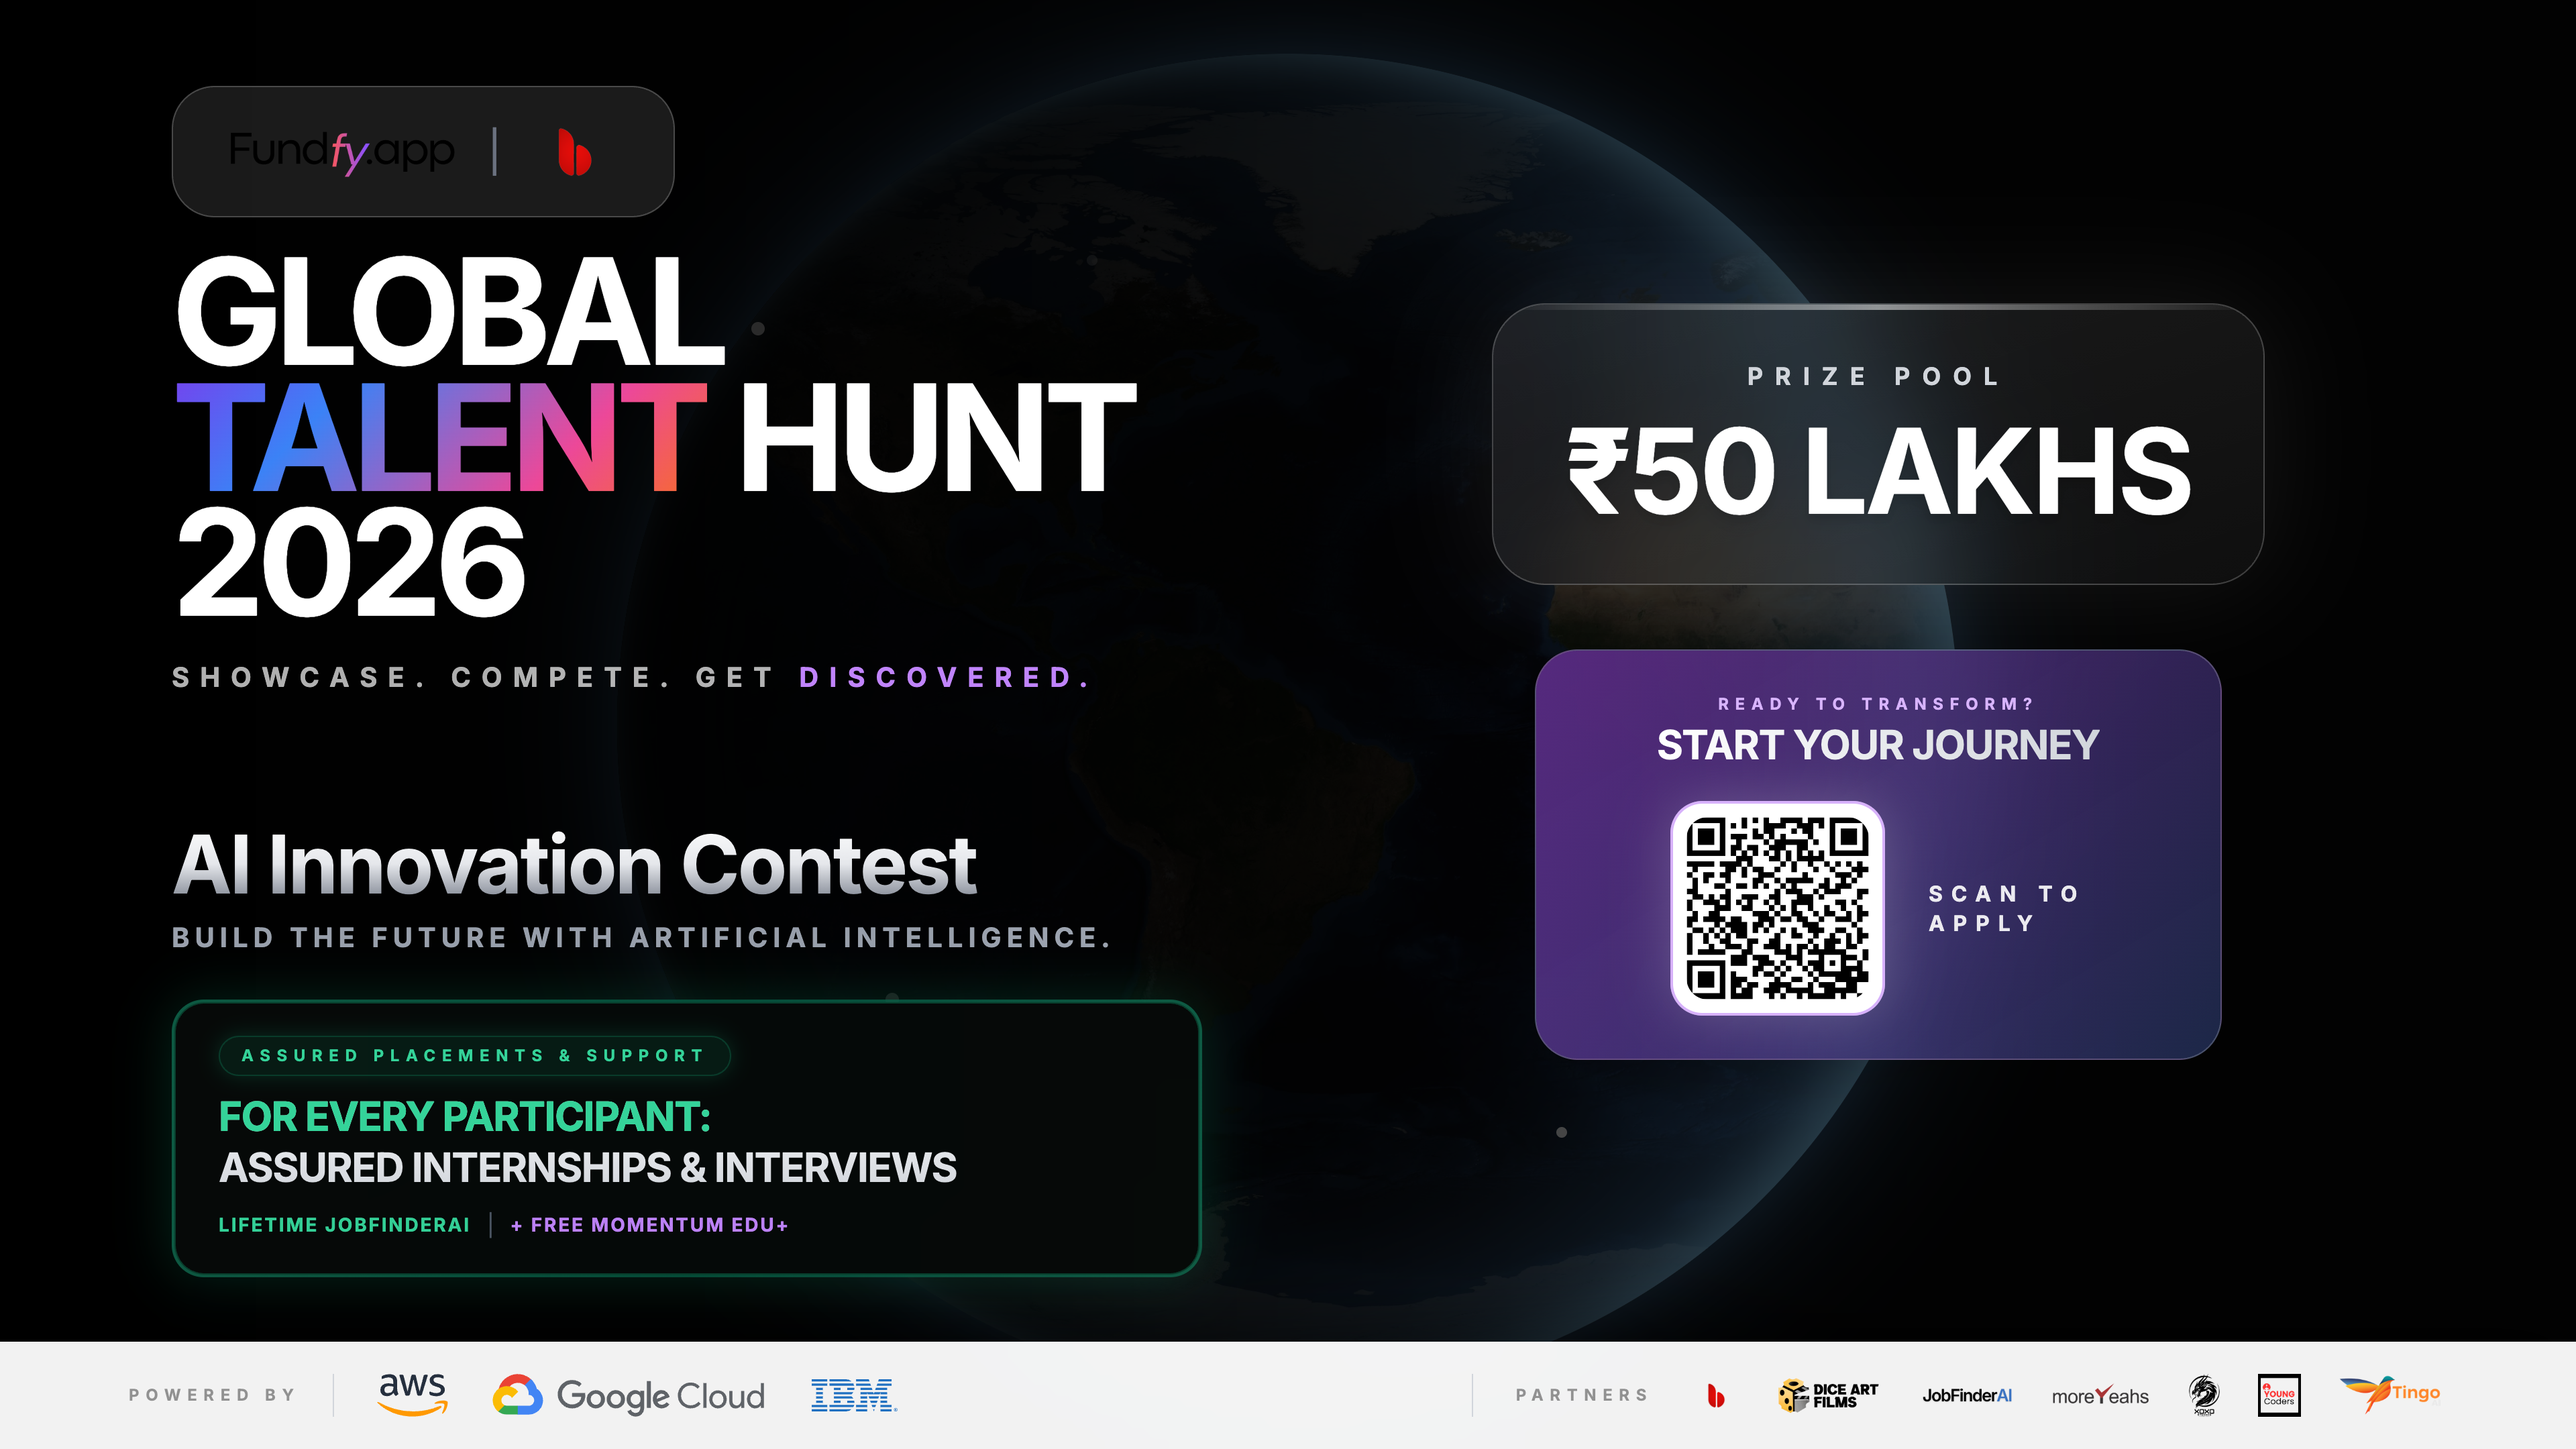
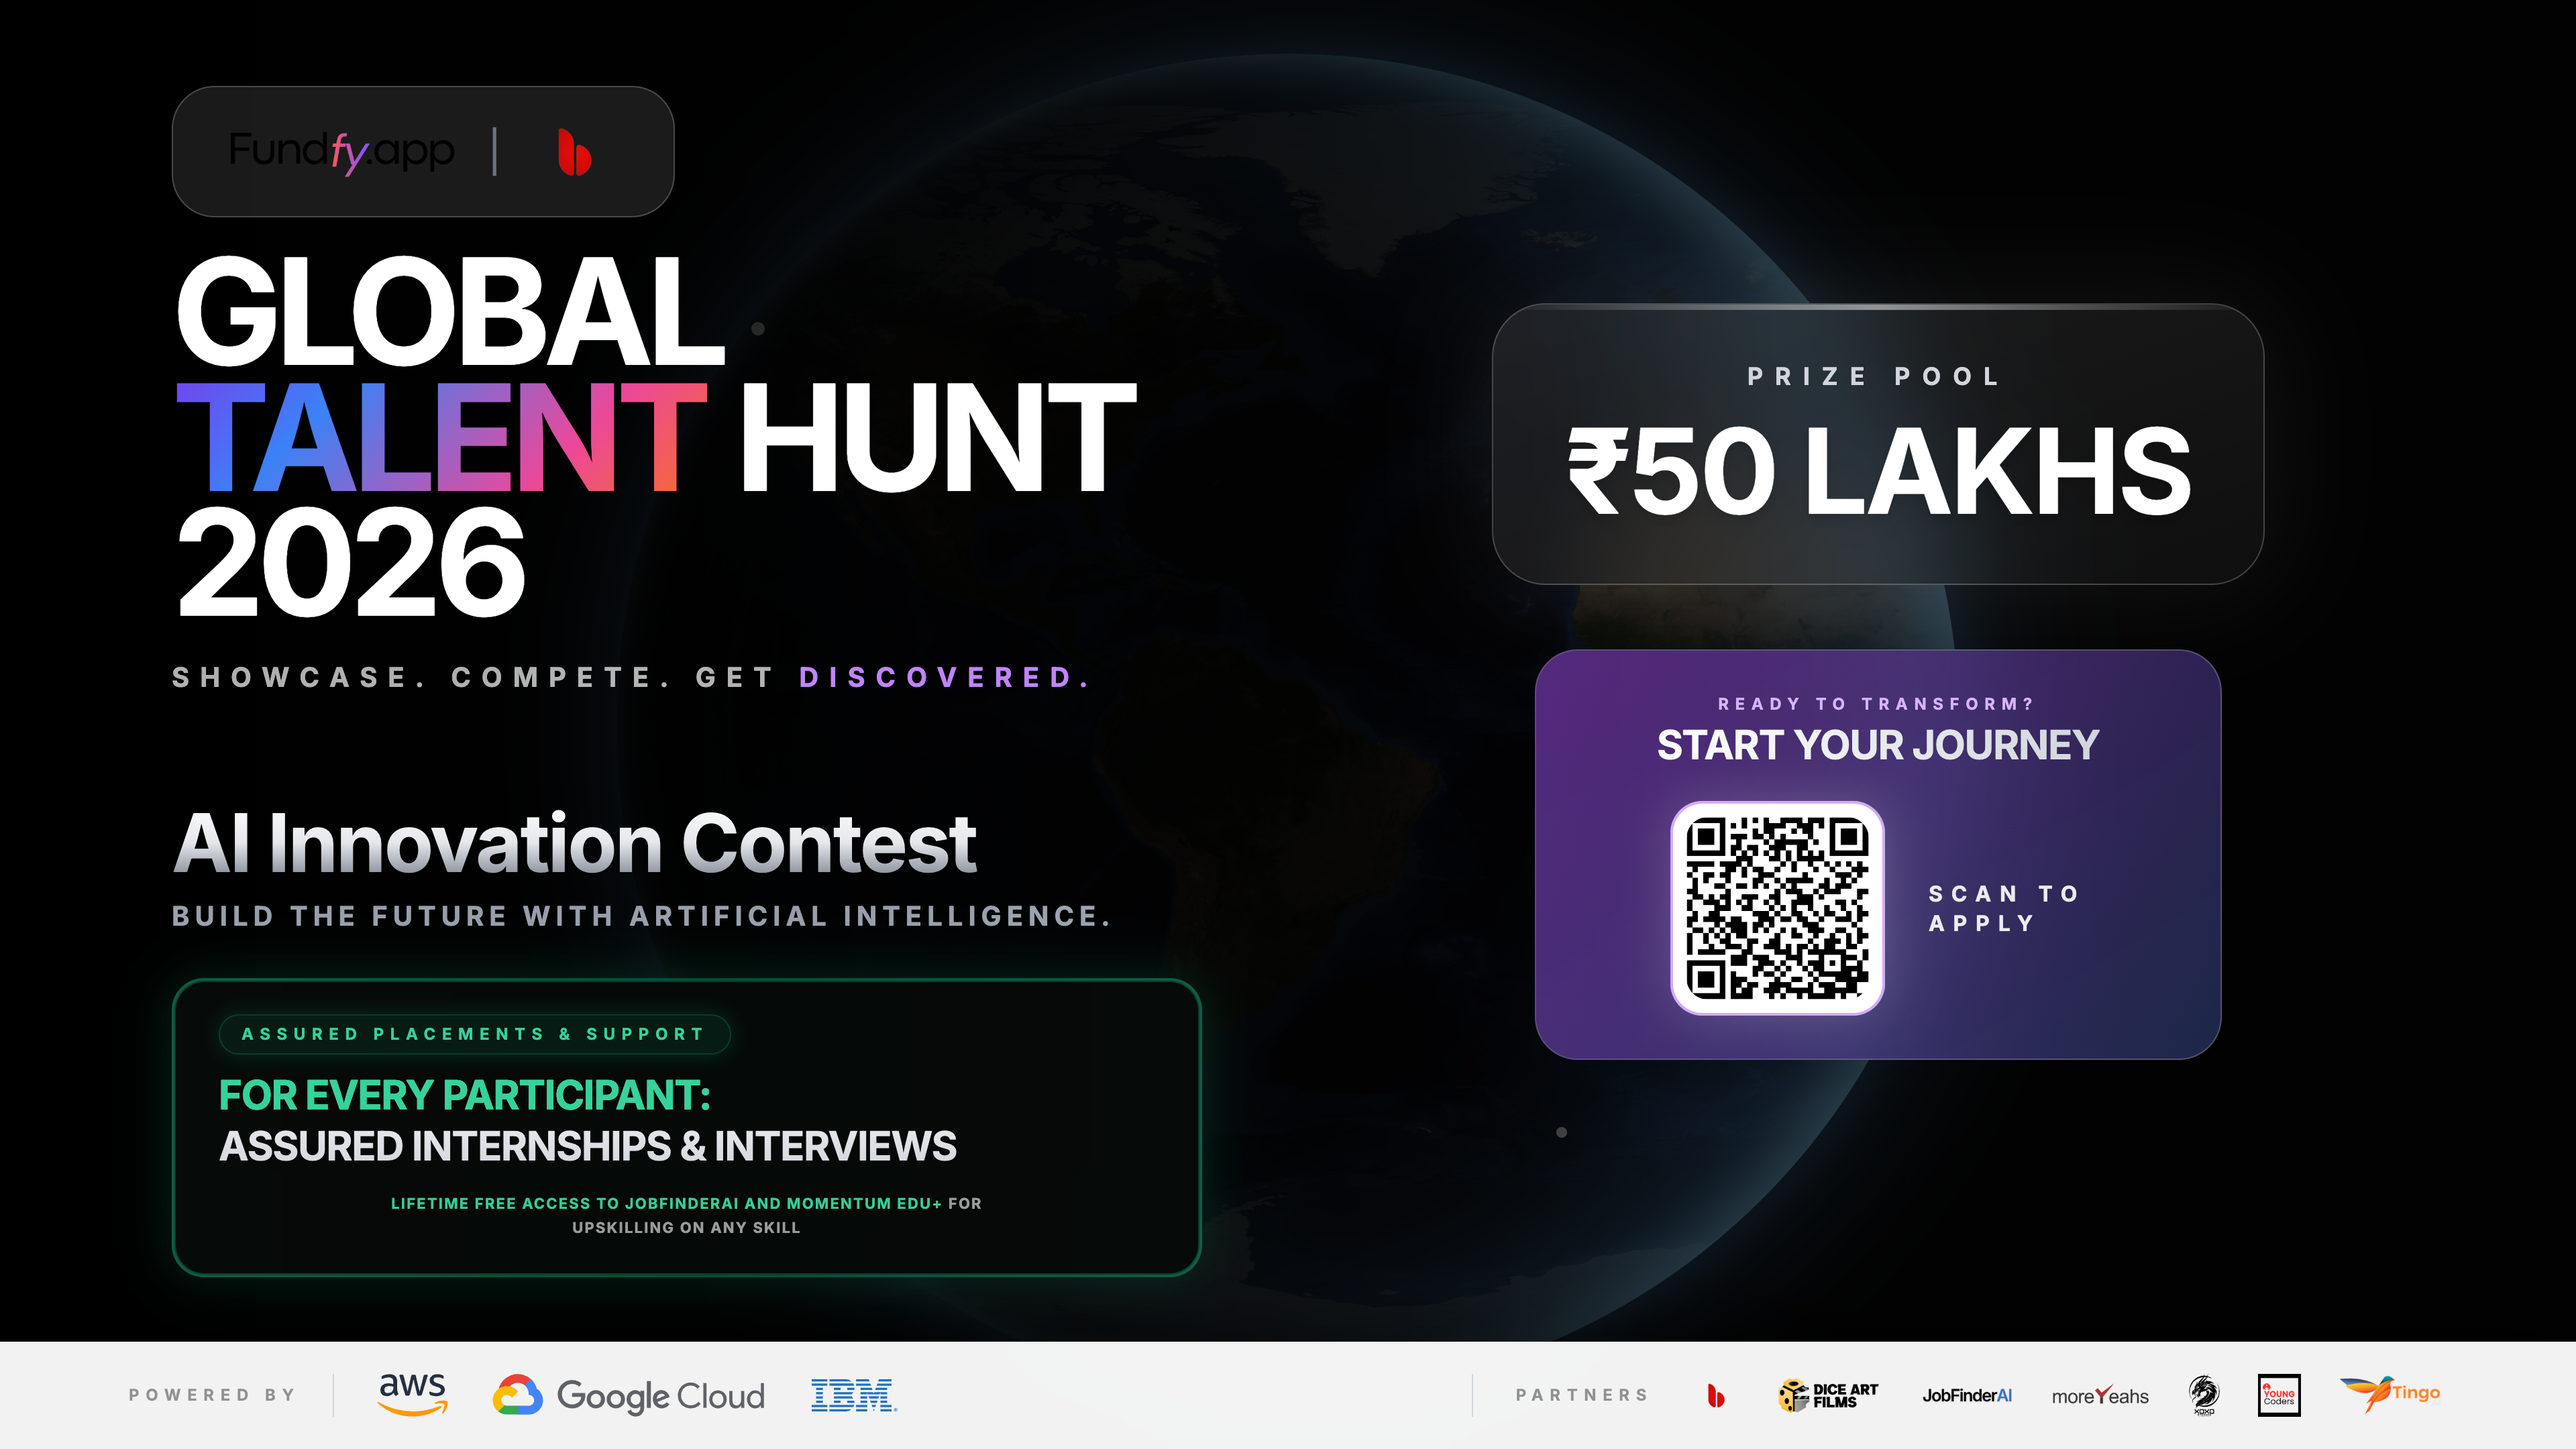
Update JobFinderAI copy in posters

Changed region(s): [[0.0625, 0.5583, 0.4375, 0.8685], [0.4375, 0.6824, 0.4688, 0.7134]]

diff --git a/src/pages/PresentationPoster.tsx b/src/pages/PresentationPoster.tsx
@@ -77,13 +77,9 @@ export default function PresentationPoster() {
                   Assured Internships & Interviews
                 </span>
                 
-                <div className="flex items-center gap-3 mt-1">
-                  <span className="text-emerald-400 font-bold uppercase tracking-widest text-sm">
-                    Lifetime JobFinderAI
-                  </span>
-                  <span className="text-gray-600">|</span>
-                  <span className="text-purple-400 font-bold uppercase tracking-widest text-sm">
-                    + Free Momentum EDU+
+                <div className="flex items-center justify-center w-full mt-2">
+                  <span className="text-emerald-400 font-bold uppercase tracking-widest text-[11px] text-center max-w-lg leading-relaxed">
+                    Lifetime free access to JobFinderAI and Momentum EDU+ <span className="text-white/60">for upskilling on any skill</span>
                   </span>
                 </div>
 

diff --git a/src/pages/Poster.tsx b/src/pages/Poster.tsx
@@ -90,8 +90,8 @@ export default function Poster() {
                   <span className="text-emerald-400 mr-2">FOR EVERY PARTICIPANT:</span><br/>
                   Assured Internships & Interviews
                 </span>
-                <span className="text-[10px] sm:text-xs font-bold text-emerald-400/90 tracking-wide uppercase mt-1">
-                  With Lifetime JobFinderAI & Momentum EDU+
+                <span className="text-[9px] sm:text-[10px] font-bold text-emerald-400/90 tracking-wide uppercase mt-1 leading-relaxed max-w-[250px] sm:max-w-xs">
+                  Lifetime free access to JobFinderAI and Momentum EDU+ <span className="text-white/60">for upskilling on any skill</span>
                 </span>
               </div>
             </div>

diff --git a/src/pages/HarshaPoster.tsx b/src/pages/HarshaPoster.tsx
@@ -79,8 +79,8 @@ export default function HarshaPoster() {
                   <span className="text-emerald-400 mr-2">FOR EVERY PARTICIPANT:</span><br/>
                   Assured Internships & Interviews
                 </span>
-                <span className="text-[13px] font-bold text-emerald-400/90 tracking-wide uppercase mt-1">
-                  With Lifetime JobFinderAI & Momentum EDU+
+                <span className="text-[11px] font-bold text-emerald-400/90 tracking-wide uppercase mt-1 leading-relaxed max-w-[320px] text-center">
+                  Lifetime free access to JobFinderAI and Momentum EDU+ <span className="text-white/60">for upskilling on any skill</span>
                 </span>
               </div>
             </div>
